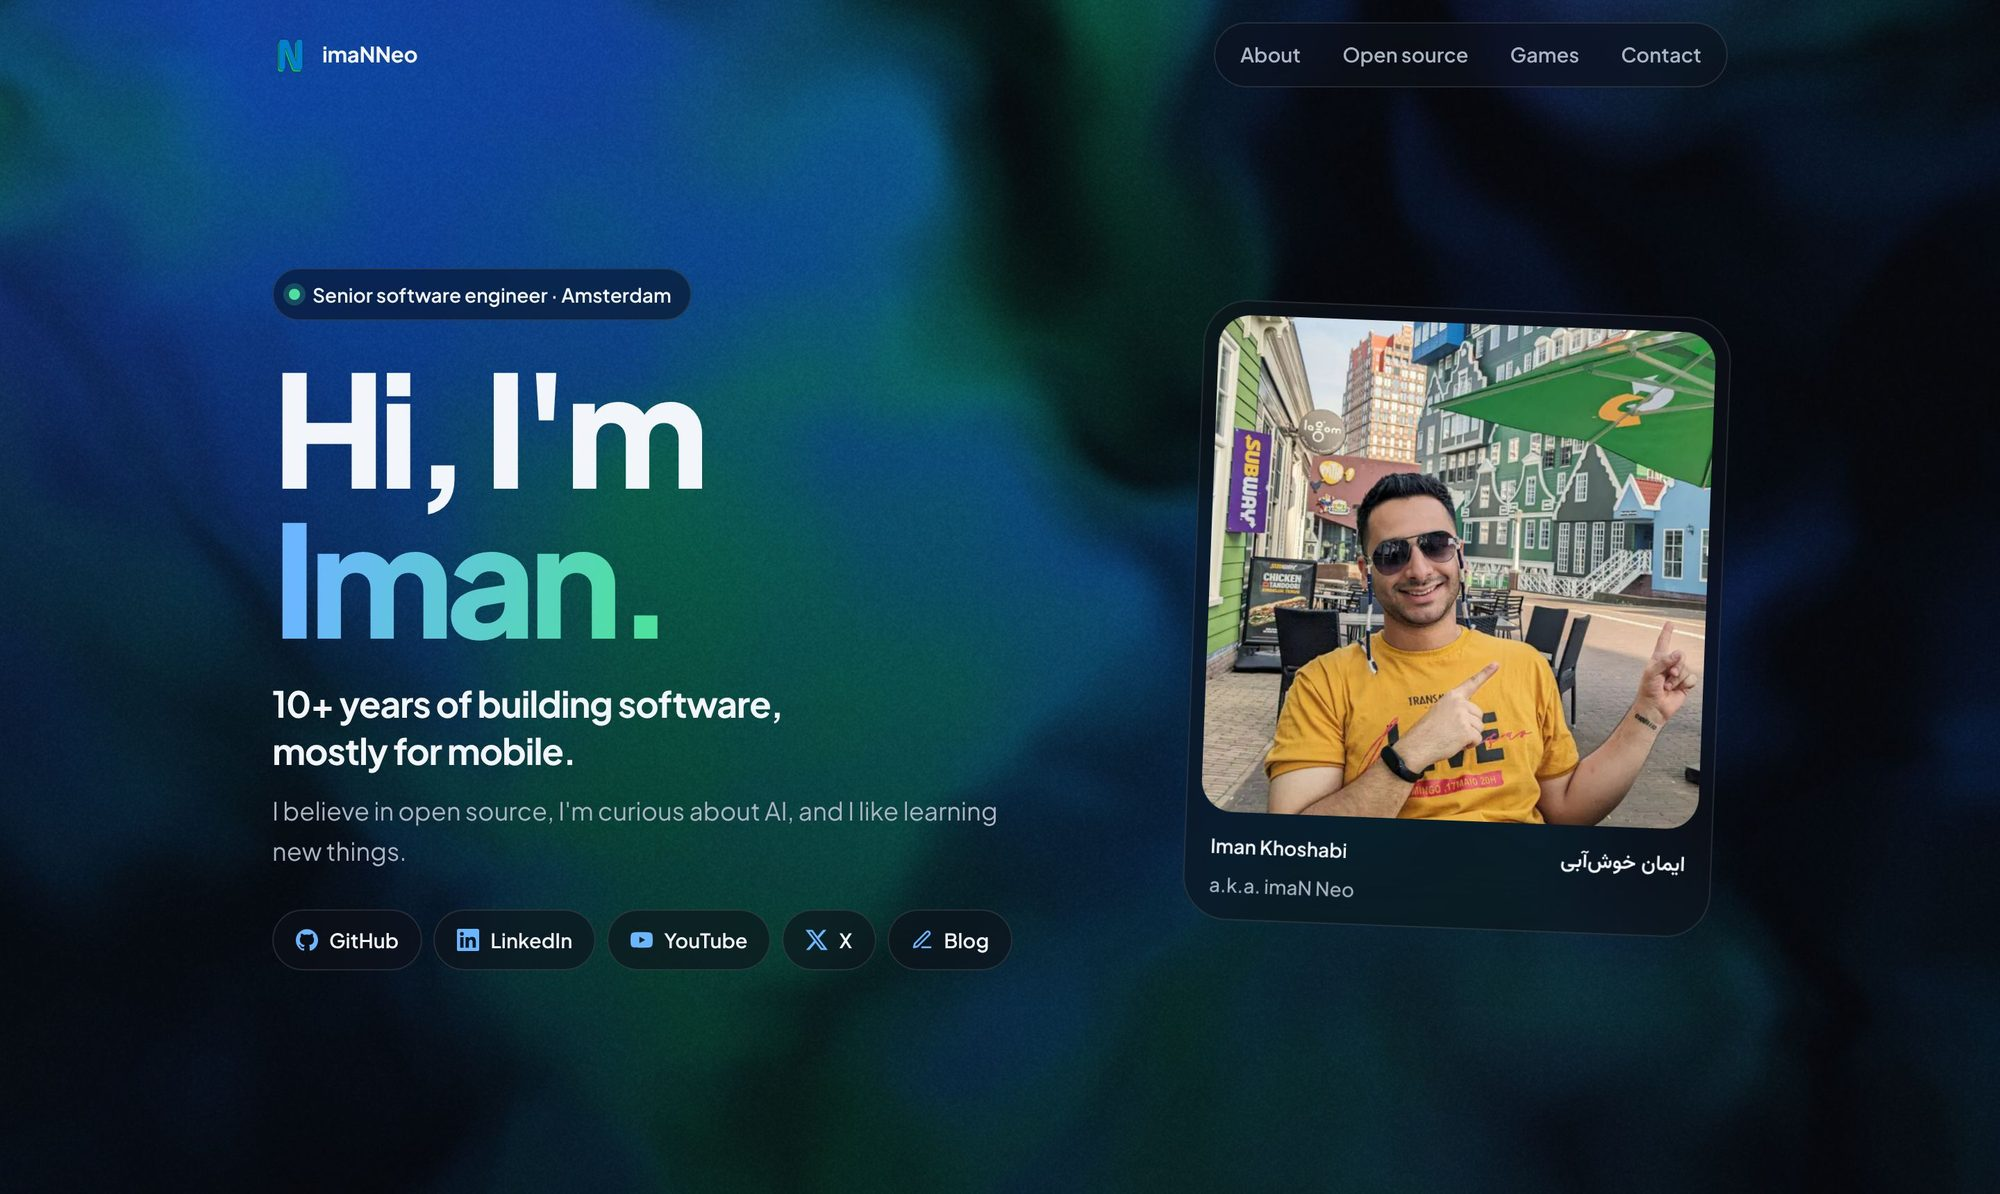
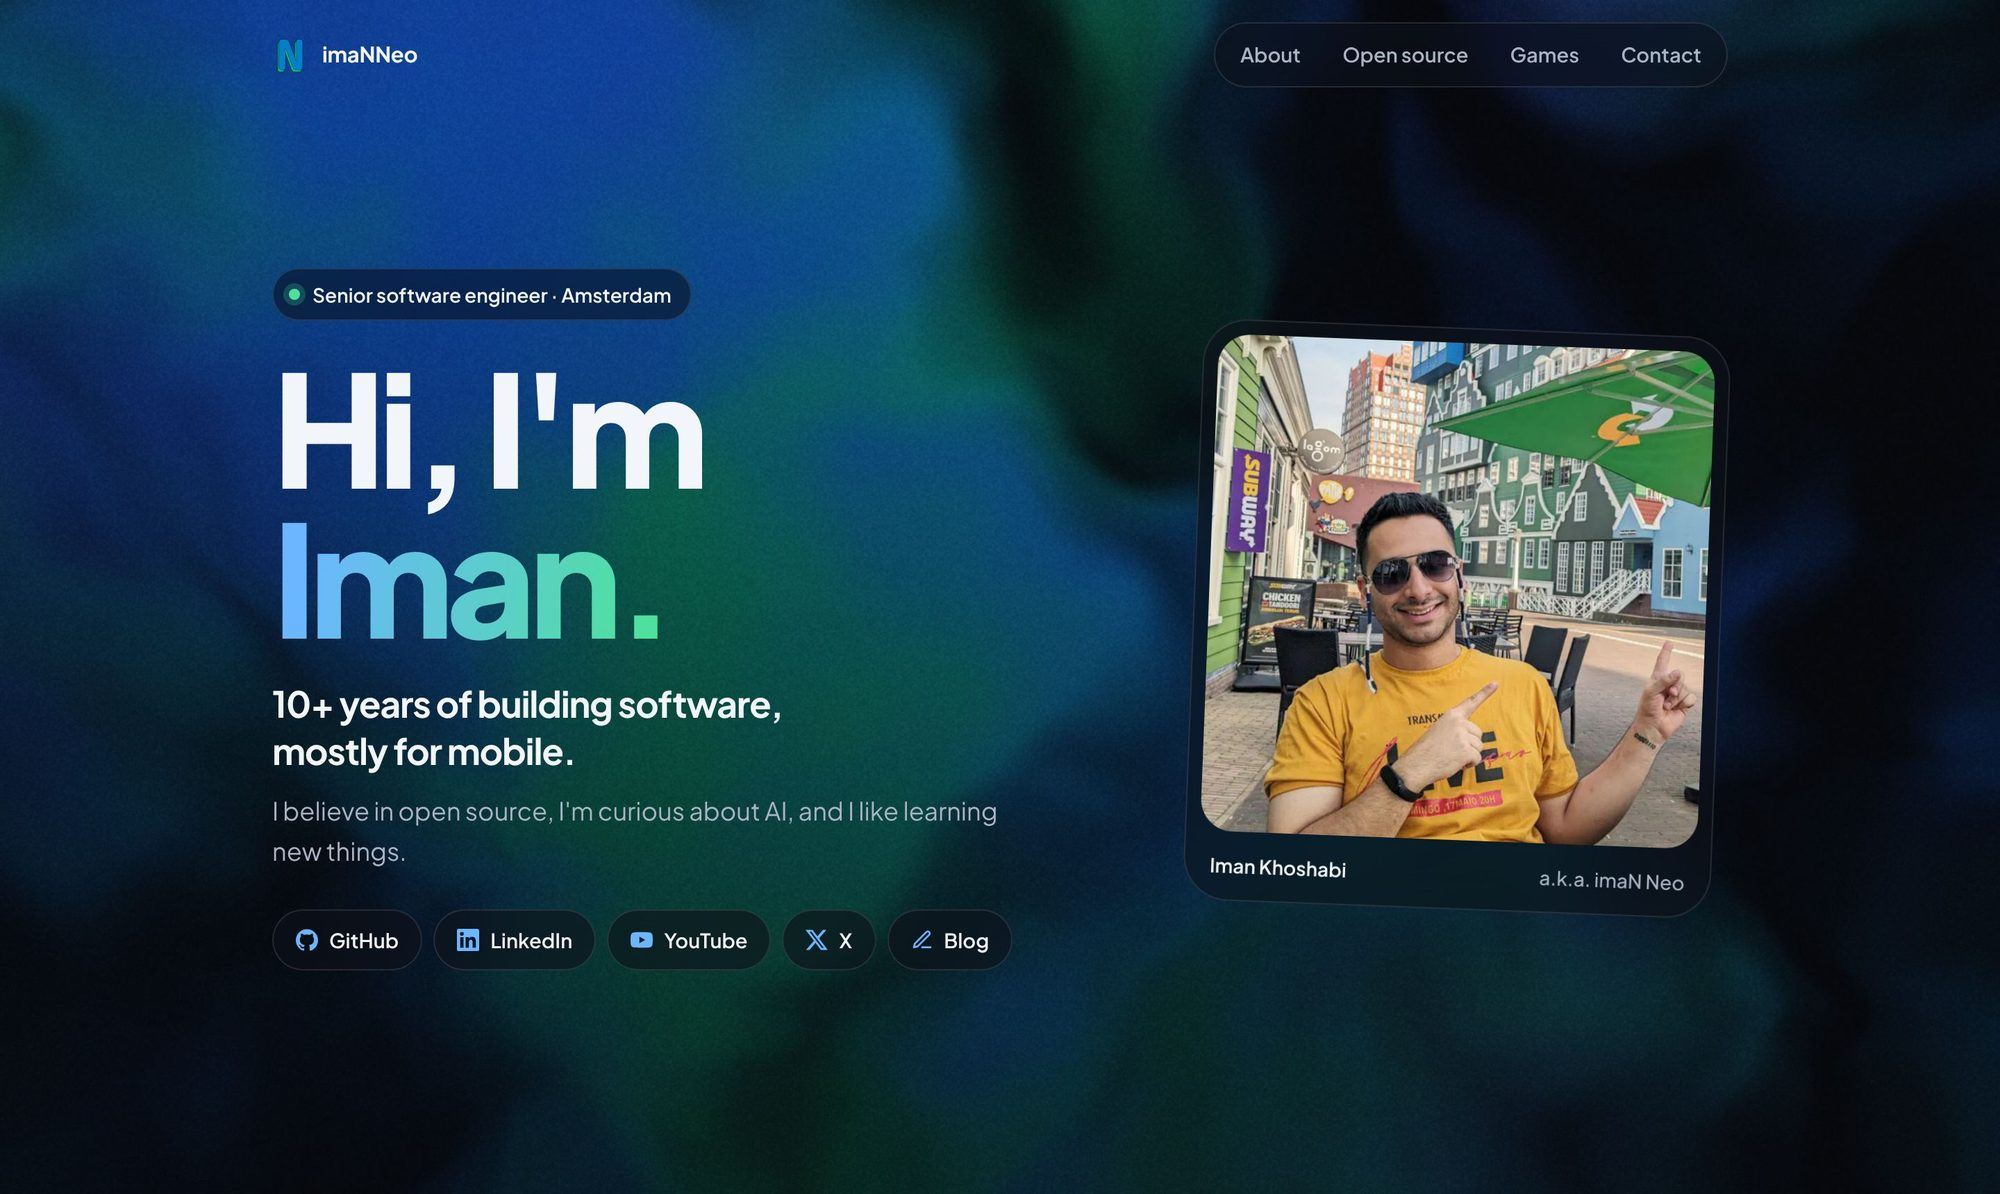
Take the name in Persian off the page, keep it for search engines
The page shows no Persian text any more. The name stays in the places
that a search engine reads without it being text on the page.

- The caption under the photo is back to the Latin name and the nickname.
  They share one line from 360 px up and stack on narrower phones.
- The description of the photo (its alt text) now ends with the name in
  Persian, in the spelling with the half-space.
- Unchanged: the title of the browser tab ends with the name in Persian
  (the spelling with a normal space), and the data for search engines
  lists both spellings among the person's other names.
- README: the section on the name in Persian says where the name sits now
  and why it must not go into the page as hidden text. New pictures of
  the first screen.

Claude-Session: https://claude.ai/code/session_013qFz5hfwQjfsRoPXc3qiDH

diff --git a/layouts/index.html b/layouts/index.html
@@ -28,10 +28,15 @@
     {{- with resources.Get $p.hero.photo }}
     {{- $small := .Resize (printf "400x %s q75" $webp) }}
     {{- $large := .Resize (printf "640x %s q75" $webp) }}
+    {{- /*
+      The page shows no Persian text. The description of the photo also names the person in Persian,
+      because that is one of the places a search engine reads without the text being on the page.
+    */}}
+    {{- $alt := $p.hero.photoAlt }}
+    {{- with $p.nameFa }}{{ $alt = printf "%s (%s)" $alt . }}{{ end }}
     <figure class="photo glass">
-      <img src="{{ $large.RelPermalink }}" srcset="{{ $small.RelPermalink }} 400w, {{ $large.RelPermalink }} 640w" sizes="(max-width: 860px) 280px, 360px" alt="{{ $p.hero.photoAlt }}" width="640" height="640" fetchpriority="high">
-      {{- /* The name in Persian is real text on the page, so that a search in Persian finds it. */}}
-      <figcaption><span>{{ $p.name }}</span>{{ with $p.nameFa }}<span class="cap-fa" lang="fa" dir="rtl">{{ . }}</span>{{ end }}<span class="cap-aka">a.k.a. {{ $p.aka }}</span></figcaption>
+      <img src="{{ $large.RelPermalink }}" srcset="{{ $small.RelPermalink }} 400w, {{ $large.RelPermalink }} 640w" sizes="(max-width: 860px) 280px, 360px" alt="{{ $alt }}" width="640" height="640" fetchpriority="high">
+      <figcaption><span>{{ $p.name }}</span><span class="cap-aka">a.k.a. {{ $p.aka }}</span></figcaption>
     </figure>
     {{- end }}
   </section>

diff --git a/assets/css/main.css b/assets/css/main.css
@@ -75,10 +75,8 @@ h1 span{background:linear-gradient(100deg,var(--acc) 10%,var(--acc-2) 90%);-webk
 
 .photo{margin:0;justify-self:center;width:min(100%,380px);padding:10px 10px 0;border-radius:32px;transform:rotate(2.2deg);box-shadow:0 30px 70px -30px rgba(10,30,70,.45)}
 .photo img{width:100%;height:auto;aspect-ratio:1;object-fit:cover;border-radius:23px}
-.photo figcaption{display:flex;flex-wrap:wrap;align-items:baseline;justify-content:space-between;gap:1px 10px;padding:13px 8px 14px;font-size:14px;font-weight:600}
-/* The name in Persian. The page's own font has no Persian letters, so this uses a font the device already has. */
-.cap-fa{font-family:Vazirmatn,Vazir,system-ui,-apple-system,"Segoe UI",Tahoma,sans-serif;font-size:15px}
-.cap-aka{flex-basis:100%;color:var(--mut);font-weight:500}
+.photo figcaption{display:flex;flex-wrap:wrap;align-items:baseline;justify-content:space-between;gap:1px 6px;padding:13px 8px 14px;font-size:14px;font-weight:600}
+.cap-aka{color:var(--mut);font-weight:500}
 
 /* The four cards */
 .secs{display:grid;gap:16px;max-width:980px;margin-inline:auto;padding-bottom:20px}

diff --git a/README.md b/README.md
@@ -33,7 +33,9 @@ The page never contains the email address as text, so that robots that collect a
 
 #### The name in Persian
 
-So that a search in Persian finds the page, `hugo.yaml` holds the name in Persian in two spellings. `nameFa` has the half-space and shows under the photo. `nameFaTyped` has a normal space, the way most people type it, and goes into the title of the browser tab. Search engines also get both as other names of the same person.
+So that a search in Persian finds the page, `hugo.yaml` holds the name in Persian in two spellings. The page itself shows no Persian text: the name sits only in places that a search engine reads. `nameFaTyped` has a normal space, the way most people type it, and goes into the title of the browser tab. `nameFa` has the half-space and goes into the description of the photo (its `alt` text). Search engines also get both as other names of the same person.
+
+Do not put the name into the page as text that is hidden with CSS. Search engines treat hidden text as spam.
 
 #### Running it locally
 
